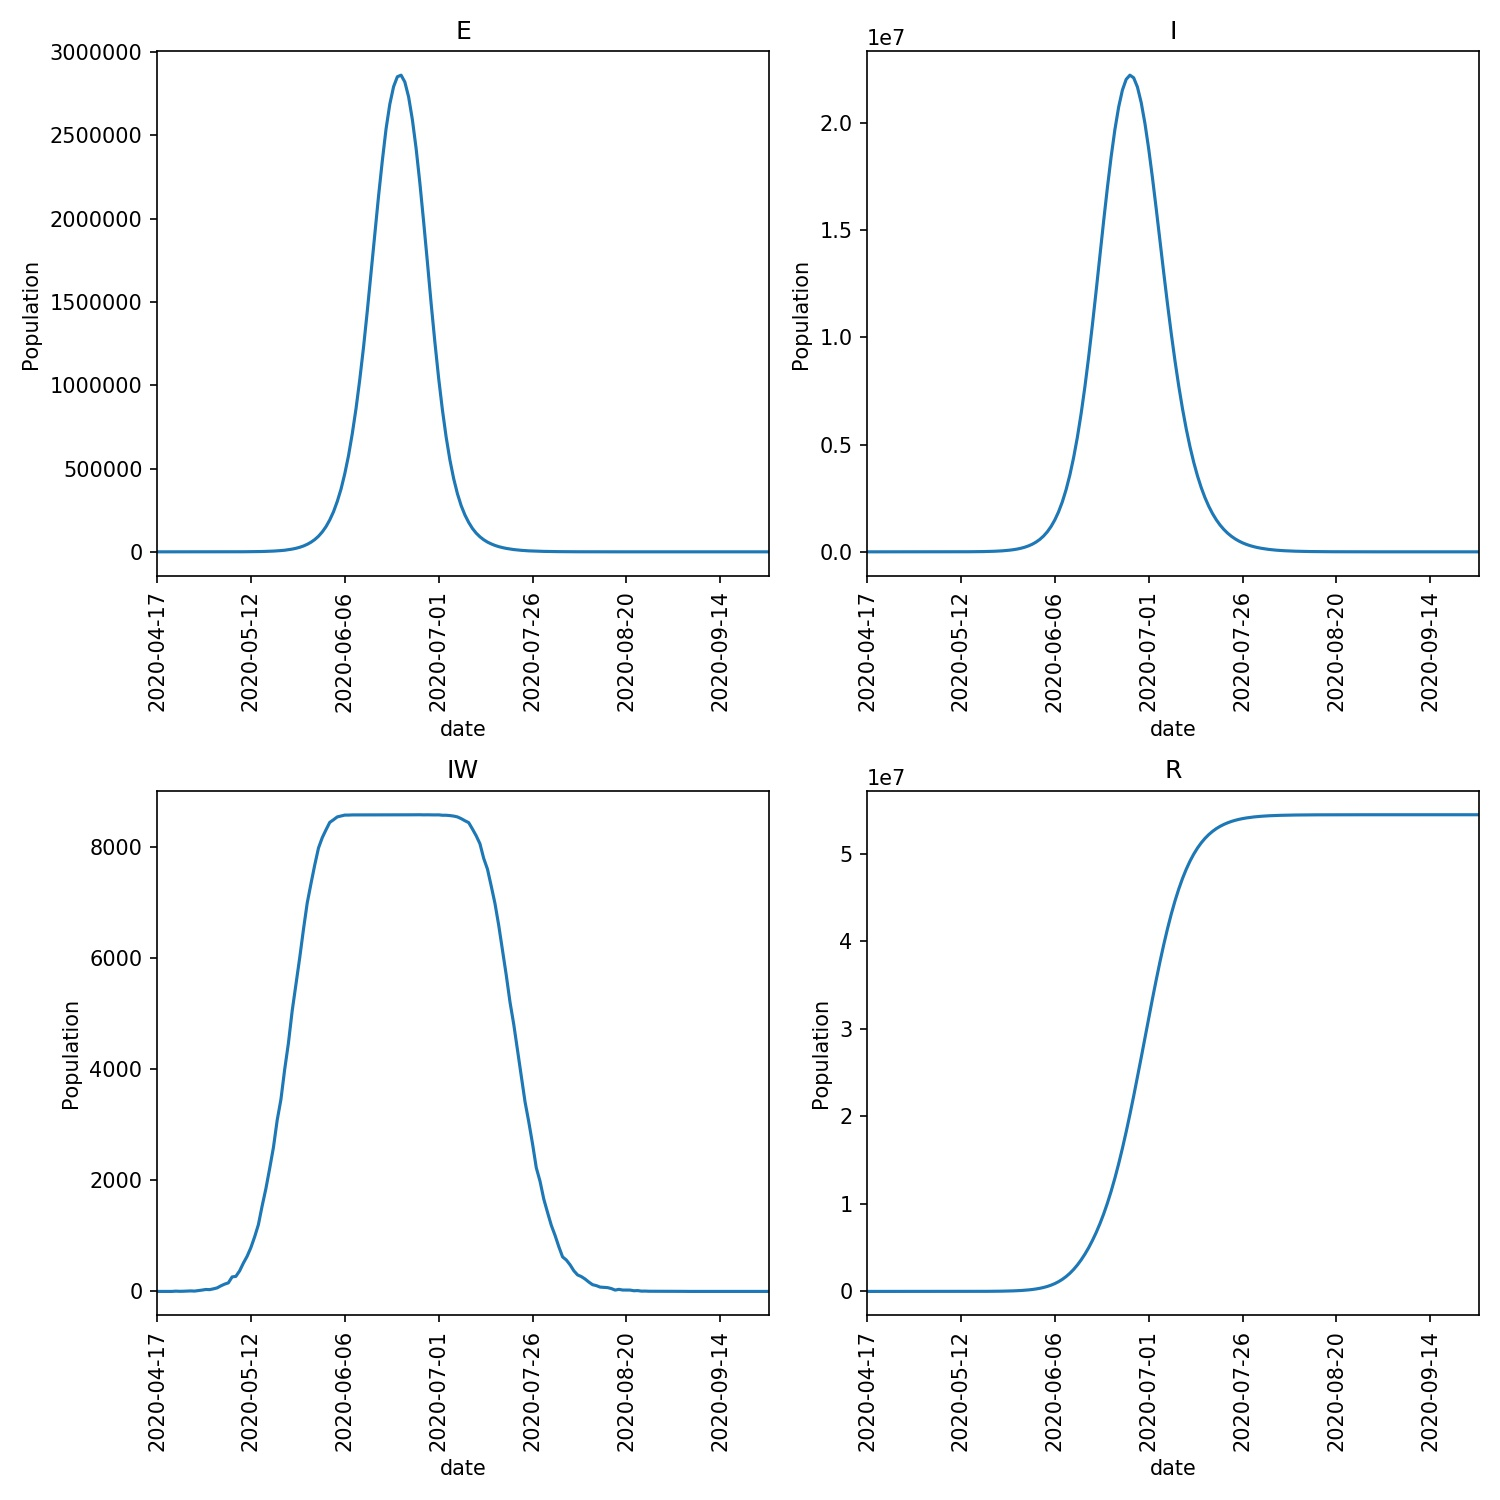
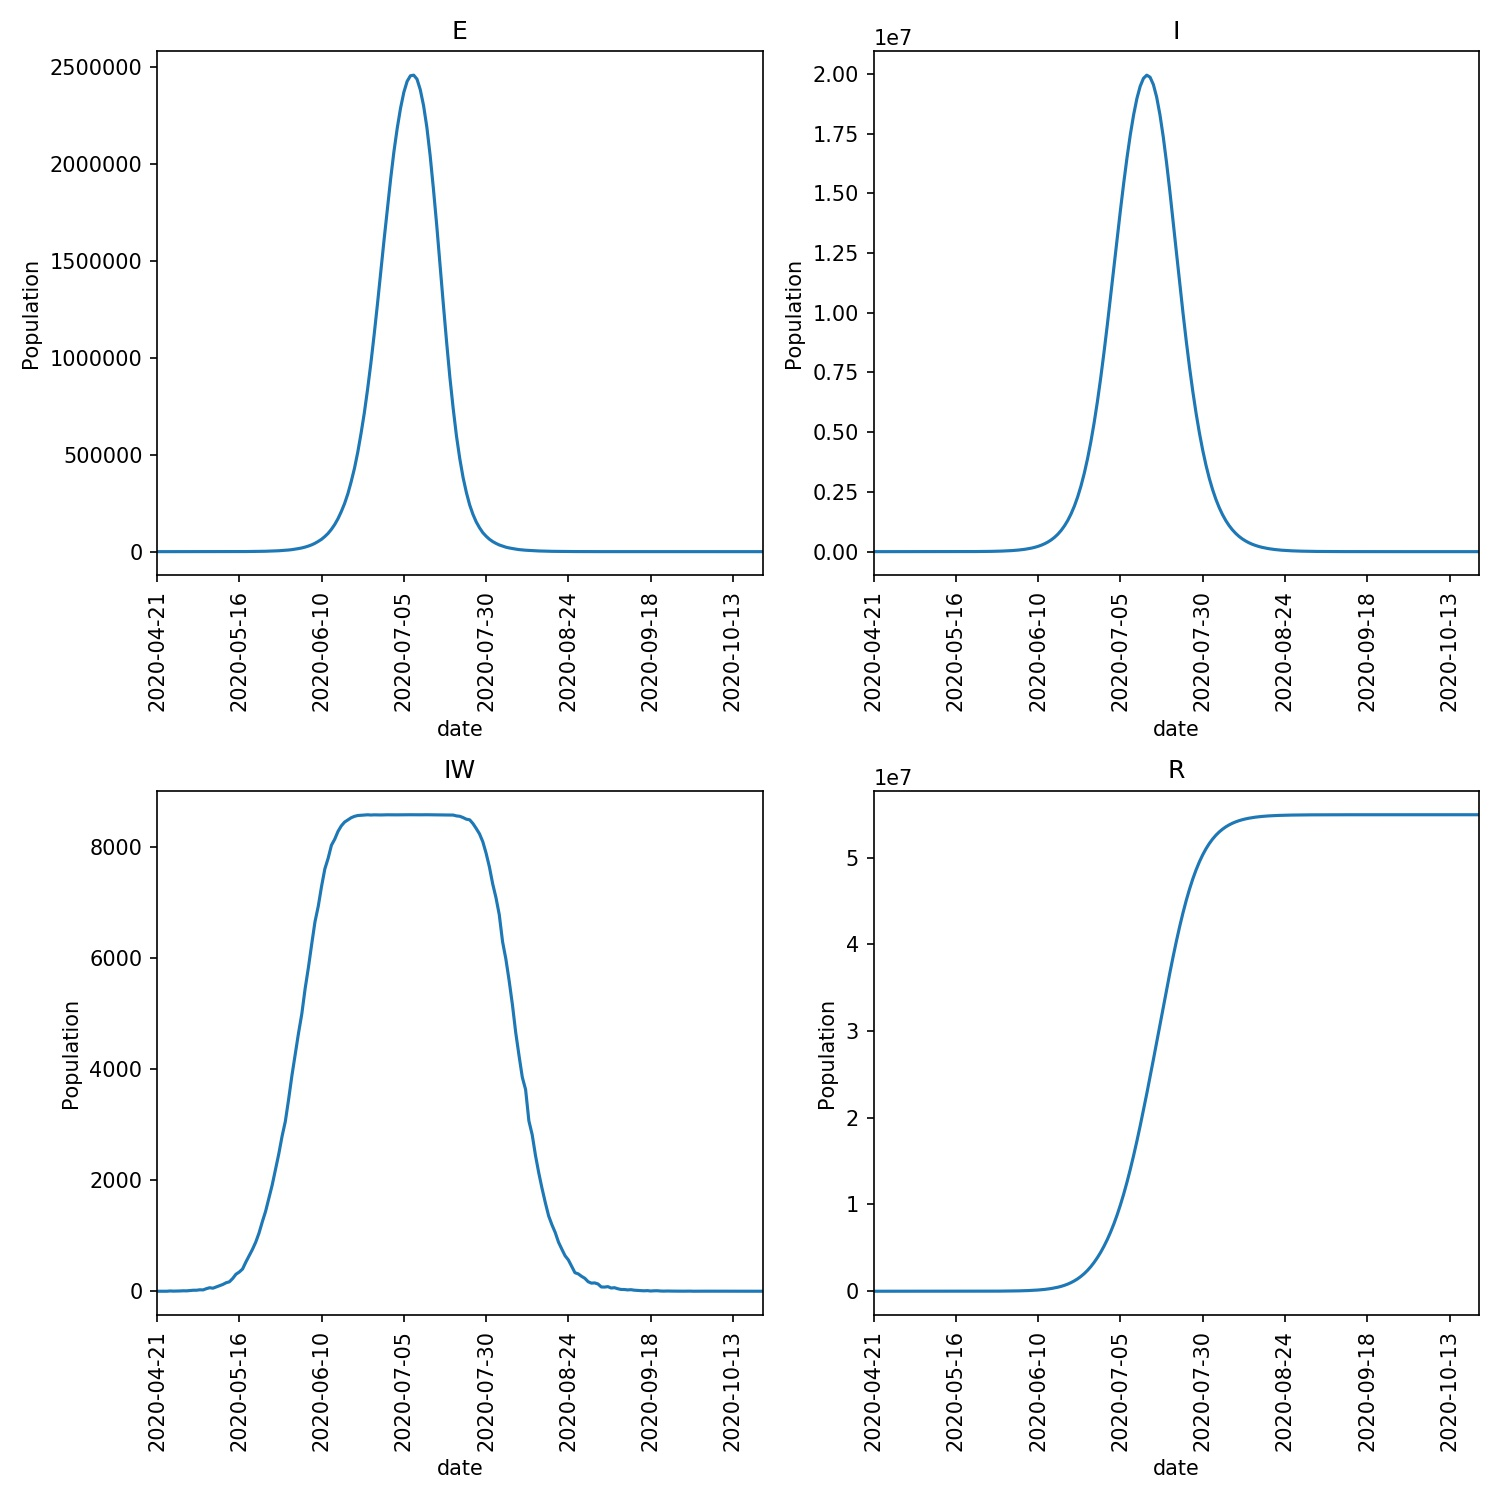
I've re-run most of the tutorial with the correct UV value. Also updated metawards-plot so that it doesn't use so much memory!

diff --git a/src/metawards/analysis/_summary_plot.py b/src/metawards/analysis/_summary_plot.py
@@ -35,7 +35,9 @@ def import_graphics_modules(verbose=False):
     return (pd, plt)
 
 
-def create_overview_plot(df, match_axes=True):
+def create_overview_plot(df, output_dir: str = None,
+                         format: str = "jpg", dpi: int = 150,
+                         align_axes: bool = True, verbose: bool = True):
     """Create a summary plot of the result.csv data held in the
        passed pandas dataframe. This returns the figure for you
        to save if desired (or just call ``plt.show()`` to show
@@ -49,15 +51,30 @@ def create_overview_plot(df, match_axes=True):
        ----------
        df : Pandas Dataframe
          The pandas dataframe containing the data from results.csv.bz2
-       match_axes: bool
+       output_dir: str
+         The name of the directory in which to draw the graphs. If this
+         is set then the graphs are written to files as they are generated
+         and the filenames of the figures are returned. This is necessary
+         when the number of graphs to draw is high and you don't want
+         to waste too much memory
+       format: str
+         Format to save the figures in if output_dir is supplied
+       dpi: int
+         dpi (dots per inch) resolution to save the figures with if
+         a bitmap format is used and output_dir is supplied
+       align_axes: bool
          If true (default) then this will ensure that all of the plots
          for different fingerprints are put on the same axis scale
+       verbose: bool
+         Whether or not to print progress to the screen
 
        Returns
        -------
        fig
          The matplotlib figure containing the summary plot, or a
-         dictionary of figures if there are multiple fingerprints
+         dictionary of figures if there are multiple fingerprints,
+         or the filename if output_dir was supplied, or a dictionary
+         of multiple filenames indexed by fingerprint
     """
     _, plt = import_graphics_modules()
 
@@ -72,7 +89,9 @@ def create_overview_plot(df, match_axes=True):
 
     columns = ["E", "I", "IW", "R"]
 
-    if len(fingerprints) > 1 and match_axes:
+    nfigs = len(fingerprints)
+
+    if len(fingerprints) > 1 and align_axes:
         for fingerprint in fingerprints:
             df2 = df[df["fingerprint"] == fingerprint]
 
@@ -115,7 +134,7 @@ def create_overview_plot(df, match_axes=True):
             ax.get_legend().remove()
             ax.set_ylabel("Population")
 
-            if len(fingerprints) > 1 and match_axes:
+            if len(fingerprints) > 1 and align_axes:
                 ax.set_xlim(min_date, max_date)
                 ax.set_ylim(min_y[column], 1.1*max_y[column])
 
@@ -130,7 +149,28 @@ def create_overview_plot(df, match_axes=True):
                 i += 1
 
         fig.tight_layout(pad=1)
-        figs[fingerprint] = fig
+
+        if output_dir:
+            import os
+
+            if nfigs == 1:
+                filename = os.path.join(output_dir, f"overview.{format}")
+            else:
+                filename = os.path.join(output_dir,
+                                        f"overview_{fingerprint}.{format}")
+
+            if verbose:
+                print(f"Saving figure {filename}")
+
+            fig.savefig(filename, dpi=dpi)
+            plt.close()
+            fig = None
+            figs[fingerprint] = filename
+        else:
+            if verbose:
+                print(f"Created the figure for {fingerprint}")
+
+            figs[fingerprint] = fig
 
     if len(figs) == 0:
         return None
@@ -140,7 +180,9 @@ def create_overview_plot(df, match_axes=True):
         return figs
 
 
-def create_average_plot(df):
+def create_average_plot(df, output_dir: str = None, format: str = "jpg",
+                        dpi: int = 150, align_axes: bool = True,
+                        verbose: bool = True):
     """Create an average plot of the result.csv data held in the
        passed pandas dataframe. This returns the figure for you
        to save if desired (or just call ``plt.show()`` to show
@@ -158,18 +200,36 @@ def create_average_plot(df):
        ----------
        df : Pandas Dataframe
          The pandas dataframe containing the data from results.csv.bz2
+       output_dir: str
+         The name of the directory in which to draw the graphs. If this
+         is set then the graphs are written to files as they are generated
+         and the filenames of the figures are returned. This is necessary
+         when the number of graphs to draw is high and you don't want
+         to waste too much memory
+       format: str
+         Format to save the figures in if output_dir is supplied
+       dpi: int
+         dpi (dots per inch) resolution to save the figures with if
+         a bitmap format is used and output_dir is supplied
+       align_axes: bool
+         If true (default) then this will ensure that all of the plots
+         for different fingerprints are put on the same axis scale
+       verbose: bool
+         Whether or not to print progress to the screen
 
        Returns
        -------
        fig
-         The matplotlib figure containing the summary plot, or None
-         if there are no repeats over which to average. A dictionary
-         of figures will be returned if the dataframe contains multiple
-         fingerprint - the dictionaries will be indexed by fingerprint
+         The matplotlib figure containing the average plot, or a
+         dictionary of figures if there are multiple fingerprints,
+         or the filename if output_dir was supplied, or a dictionary
+         of multiple filenames indexed by fingerprint
     """
     fingerprints = df["fingerprint"].unique()
 
     figs = {}
+
+    nfigs = len(fingerprints)
 
     for fingerprint in fingerprints:
         df2 = df[df["fingerprint"] == fingerprint]
@@ -201,7 +261,28 @@ def create_average_plot(df):
                     i += 1
 
             fig.tight_layout(pad=1)
-            figs[fingerprint] = fig
+
+            if output_dir:
+                import os
+
+                if nfigs == 1:
+                    filename = os.path.join(output_dir, f"average.{format}")
+                else:
+                    filename = os.path.join(output_dir,
+                                            f"average_{fingerprint}.{format}")
+
+                if verbose:
+                    print(f"Saving figure {filename}")
+
+                fig.savefig(filename, dpi=dpi)
+                fig = None
+                plt.close()
+                figs[fingerprint] = filename
+            else:
+                if verbose:
+                    print(f"Created the figure for {fingerprint}")
+
+                figs[fingerprint] = fig
 
     if len(figs) == 0:
         return None
@@ -212,7 +293,8 @@ def create_average_plot(df):
 
 
 def save_summary_plots(results: str, output_dir: str = None,
-                       format: str = "pdf", dpi: int = 300,
+                       format: str = "jpg", dpi: int = 150,
+                       align_axes: bool = True,
                        verbose=False):
     """Create summary plots of the data contained in the passed
        'results.csv.bz2' file that was produced by metawards
@@ -231,6 +313,8 @@ def save_summary_plots(results: str, output_dir: str = None,
        dpi: int
          The dots-per-inch to use when saving bitmap graphics (e.g.
          png, jpg etc)
+       align_axes: bool
+         Whether or not to plot all graphs in a set on the same axes
        verbose: bool
          Whether or not to print progress to the screen
 
@@ -258,46 +342,25 @@ def save_summary_plots(results: str, output_dir: str = None,
     if verbose:
         print(f"Creating overview plot(s)...")
 
-    figs = create_overview_plot(df)
+    figs = create_overview_plot(df, output_dir=output_dir,
+                                format=format, dpi=dpi,
+                                align_axes=align_axes)
 
-    if not isinstance(figs, dict):
-        figs = {"fingerprint": figs}
-
-    for fingerprint, fig in figs.items():
-        if len(figs) == 1:
-            filename = os.path.join(output_dir, f"overview.{format}")
-        else:
-            filename = os.path.join(output_dir,
-                                    f"overview_{fingerprint}.{format}")
-
-        if verbose:
-            print(f"Saving to {filename}...")
-
-        fig.savefig(filename, dpi=dpi)
-        filenames.append(filename)
+    if isinstance(figs, dict):
+        filenames += list(figs.values())
+    elif figs is not None:
+        filenames.append(figs)
 
     if verbose:
         print(f"Creating average plot(s)...")
 
-    figs = create_average_plot(df)
+    figs = create_average_plot(df, output_dir=output_dir,
+                               format=format, dpi=dpi,
+                               align_axes=align_axes)
 
-    if figs is None:
-        print("Nothing to plot")
-    else:
-        if not isinstance(figs, dict):
-            figs = {"fingerprint": figs}
-
-        for fingerprint, fig in figs.items():
-            if len(figs) == 1:
-                filename = os.path.join(output_dir, f"average.{format}")
-            else:
-                filename = os.path.join(output_dir,
-                                        f"average_{fingerprint}.{format}")
-
-            if verbose:
-                print(f"Saving to {filename}...")
-
-            fig.savefig(filename, dpi=dpi)
-            filenames.append(filename)
+    if isinstance(figs, dict):
+        filenames += list(figs.values())
+    elif figs is not None:
+        filenames.append(figs)
 
     return filenames

diff --git a/src/metawards/app/plot.py b/src/metawards/app/plot.py
@@ -34,6 +34,15 @@ def parse_args():
                              "publication graphics and 'png' or 'jpeg' "
                              "for webpages")
 
+    parser.add_argument("--align-axes", action="store_true", default=None,
+                        help="Whether to align the axes of all graphs "
+                             "so that they are all plotted on the same "
+                             "scale (default true)")
+
+    parser.add_argument("--no-align-axes", action="store_true", default=None,
+                        help="Disable alignment of the axes of graphs. "
+                             "Each graph will be drawn using its own scale")
+
     parser.add_argument("--dpi", type=int, default=150,
                         help="Resolution to use when creating bitmap "
                              "outputs, e.g. jpg, png etc.")
@@ -67,10 +76,18 @@ def cli():
     if args.input:
         from metawards.analysis import save_summary_plots
 
+        align_axes = True
+
+        if args.align_axes:
+            align_axes = True
+        elif args.no_align_axes:
+            align_axes = False
+
         filenames = save_summary_plots(results=args.input,
                                        output_dir=args.output,
                                        format=args.format,
                                        dpi=args.dpi,
+                                       align_axes=align_axes,
                                        verbose=True)
 
         print(f"Written graphs to {', '.join(filenames)}")

diff --git a/doc/source/tutorial/part02/05_refining.rst b/doc/source/tutorial/part02/05_refining.rst
@@ -155,14 +155,14 @@ Conclusion from experiment
 --------------------------
 
 It is clear from these graphs that the rate of progress through the new
-stage of the lurgy we added has a dramatic impact on the form of the
-outbreak. Lower value of **progress** in the new infectious and
-asymptomatic stage of the lurgy which we added lead to wider outbreak
-that moves more quickly through the population.
+stage of the lurgy we added has an impact on the form of the
+outbreak. The lower value of **progress** in the new infectious and
+asymptomatic stage leads to a wider outbreak that moves more quickly
+through the population.
 
-The (fictional) lurgy is a mild yet very infectious disease that doesn't
+The (fictional) lurgy is a mild and mildly infectious disease that doesn't
 cause too many symptoms. From the graphs, it is clear that this is best
-modelled using a high value of **beta** and a low value of **progress**
+modelled using a low value of **beta** and a low value of **progress**
 for the new stage we added. We will leave the value of
 **too_ill_to_move** at 0.0 to capture asymptomatic nature of this
 stage. With this choice made,
@@ -176,7 +176,7 @@ please create a new version of the lurgy disease parameters called
     "author(s)"        : "Christopher Woods",
     "contact(s)"       : "christopher.woods@bristol.ac.uk",
     "reference(s)"     : "Completely ficticious disease - no references",
-    "beta"             : [0.0, 0.0, 0.7, 0.5, 0.5, 0.0],
+    "beta"             : [0.0, 0.0, 0.4, 0.5, 0.5, 0.0],
     "progress"         : [1.0, 1.0, 0.2, 0.5, 0.5, 0.0],
     "too_ill_to_move"  : [0.0, 0.0, 0.0, 0.5, 0.8, 1.0],
     "contrib_foi"      : [1.0, 1.0, 1.0, 1.0, 1.0, 0.0]
